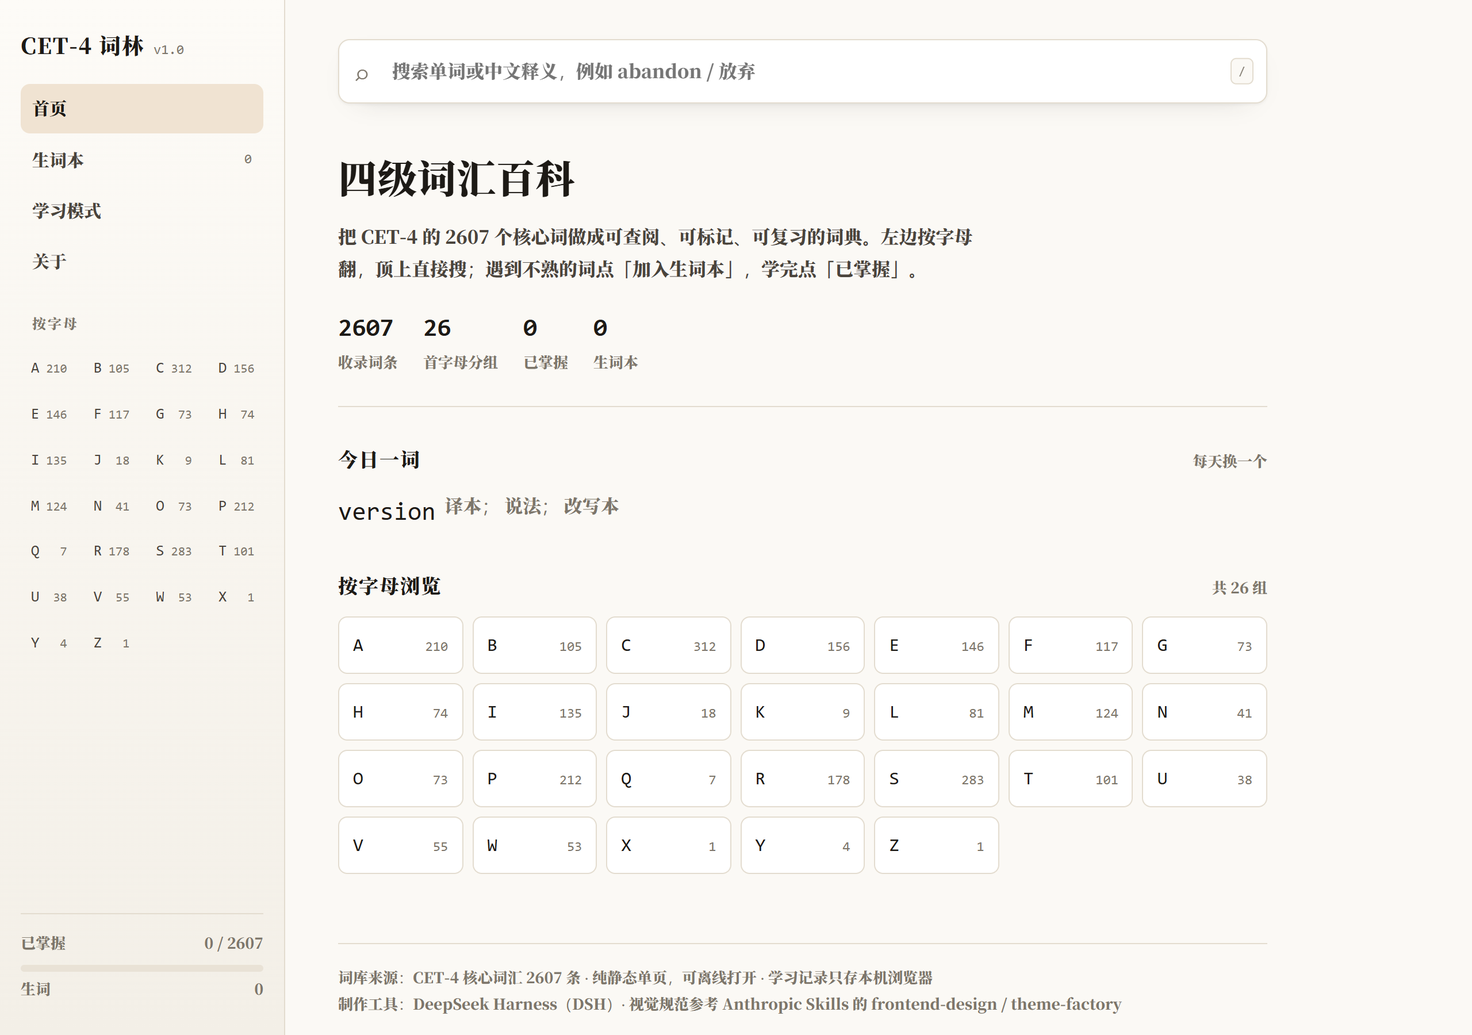
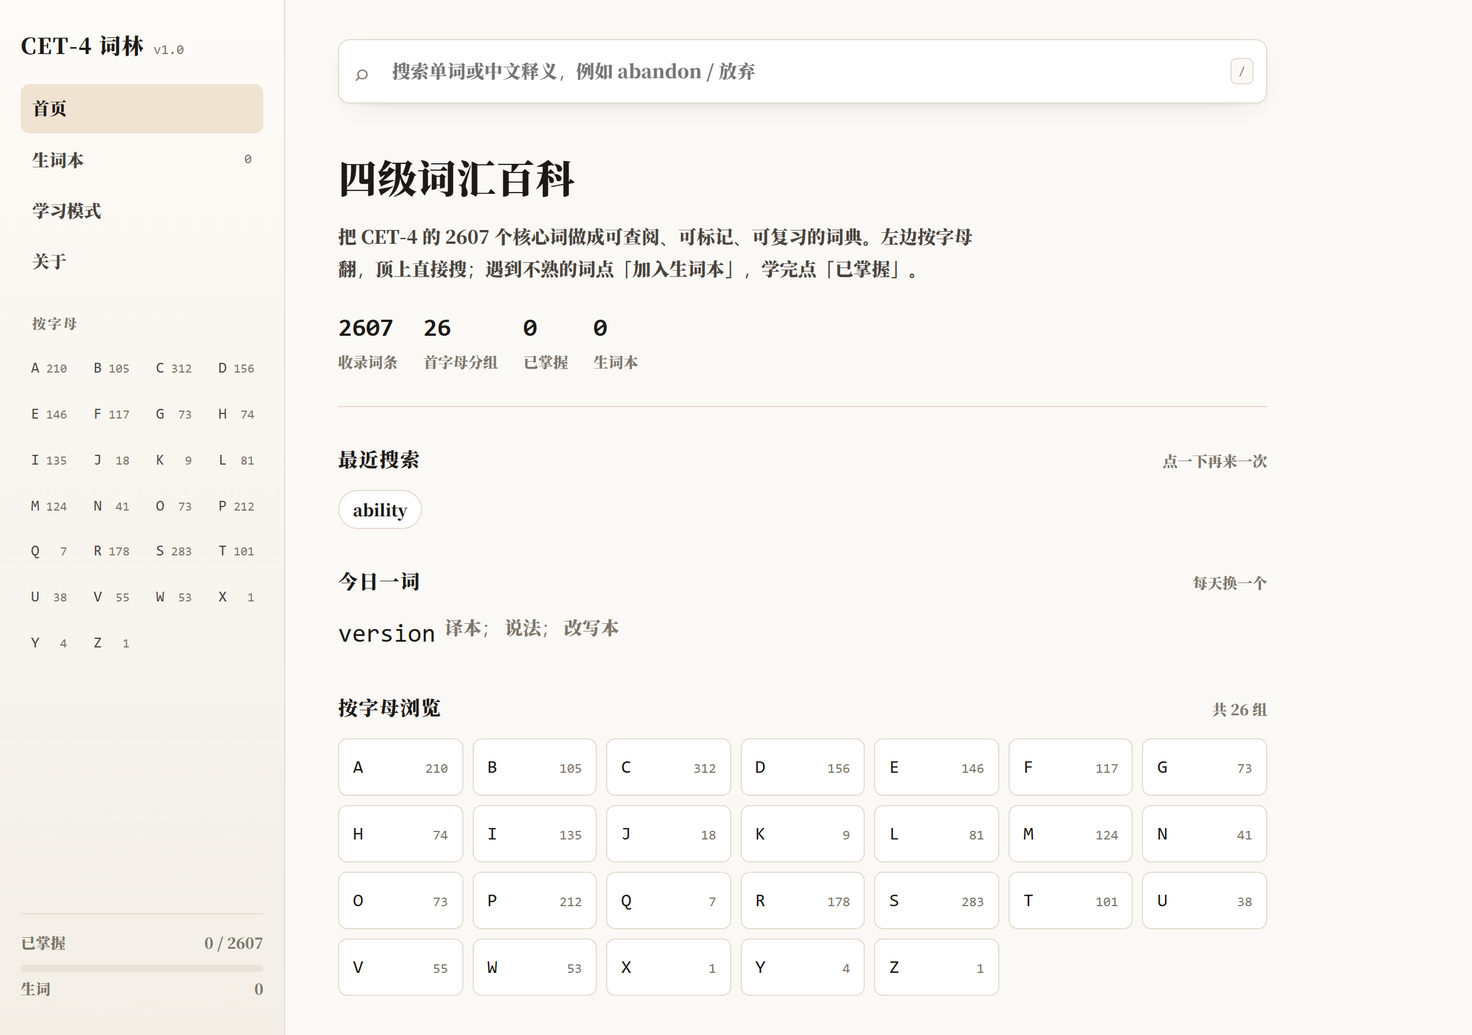
新增例句与朗读、搜索结果页、搜索历史

diff --git a/examples.js b/examples.js
@@ -1,0 +1,141 @@
+/* 精选例句：为高频词手写的一条中英对照例句（AI 生成，标注见「关于」页）
+   结构：window.CET4_EXAMPLES = { word: { en, zh } } */
+window.CET4_EXAMPLES = {
+  abandon:      { en: "The crew had to abandon the ship when the storm hit.", zh: "暴风雨来袭时，船员不得不弃船。" },
+  ability:      { en: "She has the ability to explain difficult ideas simply.", zh: "她有把复杂概念讲简单的能力。" },
+  absolute:     { en: "You need absolute silence before you can hear the difference.", zh: "要先有绝对的安静，才听得出来区别。" },
+  academic:     { en: "His academic record is strong, but his writing is weak.", zh: "他的学业成绩很好，但写作较弱。" },
+  accept:       { en: "I accept your apology, but I still want an explanation.", zh: "我接受你的道歉，但我还是想要个解释。" },
+  access:       { en: "Students can access the library database from home.", zh: "学生可以在家访问图书馆数据库。" },
+  accident:     { en: "The accident was caused by a driver checking his phone.", zh: "这起事故是司机看手机造成的。" },
+  accompany:    { en: "Thunder usually accompanies a heavy summer storm.", zh: "夏天的暴雨通常伴着雷声。" },
+  accomplish:   { en: "We accomplished more in one week than in the past month.", zh: "我们一周的成果超过了过去一个月。" },
+  accurate:     { en: "The map is accurate enough for walking, but not for driving.", zh: "这张地图步行够准，开车就不行了。" },
+  achieve:      { en: "She achieved her goal without sacrificing her health.", zh: "她达成了目标，也没牺牲健康。" },
+  acquire:      { en: "Children acquire language faster than adults do.", zh: "儿童习得语言比成年人快。" },
+  adapt:        { en: "Plants adapt to dry weather by growing deeper roots.", zh: "植物通过长出更深的根来适应干旱。" },
+  adequate:     { en: "The room was adequate, but the view was disappointing.", zh: "房间够用，但风景让人失望。" },
+  adjust:       { en: "You may need to adjust the seat before you start driving.", zh: "开车前你可能需要调一下座椅。" },
+  admire:       { en: "I admire the way he stayed calm under pressure.", zh: "我钦佩他在压力下保持冷静的样子。" },
+  admit:        { en: "He admitted that the first draft was better than the second.", zh: "他承认第一版比第二版好。" },
+  adopt:        { en: "The company decided to adopt a four-day work week.", zh: "公司决定采用每周四天工作制。" },
+  advance:      { en: "Please book your ticket in advance; the seats sell out fast.", zh: "请提前订票，座位卖得很快。" },
+  advantage:    { en: "Speaking two languages is a real advantage in this job.", zh: "会两种语言在这份工作里是真优势。" },
+  affect:       { en: "Lack of sleep affects your memory more than you think.", zh: "缺觉对记忆的影响比你想象的大。" },
+  afford:       { en: "We can't afford to lose another week on this.", zh: "我们没时间再在这上面浪费一周了。" },
+  agency:       { en: "The travel agency changed our flight without asking.", zh: "旅行社没问我们就改了航班。" },
+  agriculture:  { en: "Agriculture still employs half the people in this region.", zh: "这个地区仍有一半人从事农业。" },
+  alternative:  { en: "Cycling is a healthy alternative to driving to work.", zh: "骑车上班是开车之外的健康选择。" },
+  ambition:     { en: "Her ambition is to build a school in her hometown.", zh: "她的志向是在家乡建一所学校。" },
+  analyze:      { en: "Let's analyze the data before we blame anyone.", zh: "先分析数据，再谈责任。" },
+  ancient:      { en: "The ancient bridge is still used by local farmers.", zh: "这座古桥至今仍被当地农民使用。" },
+  announce:     { en: "They announced the results at the end of the meeting.", zh: "会议结束时他们公布了结果。" },
+  annual:       { en: "The annual report is due at the end of March.", zh: "年度报告三月底前交。" },
+  anxious:      { en: "I felt anxious the whole week before the interview.", zh: "面试前那一整周我都很焦虑。" },
+  apparent:     { en: "It soon became apparent that the plan would not work.", zh: "很快就看出这个计划行不通。" },
+  appeal:       { en: "The idea appeals to students who hate long lectures.", zh: "这个想法很吸引讨厌长课的学生。" },
+  appreciate:   { en: "I really appreciate you taking the time to explain this.", zh: "很感谢你花时间解释这件事。" },
+  approach:     { en: "We need a different approach if the first one fails.", zh: "第一种办法失败的话，我们得换个思路。" },
+  appropriate:  { en: "That joke was funny, but not appropriate for the meeting.", zh: "那个笑话挺好笑，但不适合在会上讲。" },
+  approve:      { en: "The manager approved the budget after two revisions.", zh: "改了两版之后，经理批了预算。" },
+  argue:        { en: "They argued for an hour about whose turn it was.", zh: "他们为该谁值班吵了一个小时。" },
+  arise:        { en: "Problems arise when nobody is responsible for the details.", zh: "没人对细节负责时，问题就会冒出来。" },
+  arrange:      { en: "I'll arrange the chairs if you bring the projector.", zh: "你带投影仪的话，我来摆椅子。" },
+  aspect:       { en: "Cost is only one aspect of the decision.", zh: "成本只是这个决定的一个方面。" },
+  assess:       { en: "The teacher assesses progress by weekly quizzes.", zh: "老师用每周小测来评估进度。" },
+  assign:       { en: "She assigned the hardest task to herself.", zh: "她把最难的任务分给了自己。" },
+  assist:       { en: "Two volunteers assisted the students during the experiment.", zh: "两名志愿者在实验中协助学生。" },
+  assume:       { en: "Don't assume everyone understands the abbreviation.", zh: "别以为每个人都看得懂那个缩写。" },
+  attach:       { en: "Please attach the file instead of pasting screenshots.", zh: "请附上文件，别贴截图。" },
+  attempt:      { en: "His first attempt failed, but the second one worked.", zh: "他第一次尝试失败，第二次成了。" },
+  attitude:     { en: "Her attitude changed the moment the deadline moved.", zh: "截止日期一改，她的态度就变了。" },
+  attract:      { en: "The new library attracts students who never used to read.", zh: "新图书馆吸引了以前从不看书的学生。" },
+  authority:    { en: "Only the local authority can approve this kind of change.", zh: "这种变更只有地方主管部门能批。" },
+  available:    { en: "The room is available after three o'clock.", zh: "三点以后这个房间空着。" },
+  avoid:        { en: "Avoid opening the box in a humid room.", zh: "别在潮湿的房间里打开这个盒子。" },
+  aware:        { en: "I wasn't aware that the deadline had changed.", zh: "我不知道截止日期改了。" },
+  balance:      { en: "It takes practice to balance speed and accuracy.", zh: "在速度和准确率之间找平衡需要练习。" },
+  benefit:      { en: "The biggest benefit of walking is that it costs nothing.", zh: "走路最大的好处是不花钱。" },
+  brief:        { en: "Keep the introduction brief; the details come later.", zh: "引言简短点，细节后面再说。" },
+  budget:       { en: "The budget covers materials but not labor.", zh: "预算包含材料，不包含人工。" },
+  calculate:    { en: "Calculate the total before you place the order.", zh: "下单前先算一下总价。" },
+  campaign:     { en: "The campaign reached two million people in a week.", zh: "这场活动一周内触达了两百万人。" },
+  capable:      { en: "She is capable of finishing this alone.", zh: "她一个人就能完成这件事。" },
+  capacity:     { en: "The hall has a capacity of three hundred people.", zh: "这个厅能容纳三百人。" },
+  career:       { en: "He changed careers at thirty-five and never regretted it.", zh: "他三十五岁转行，从没后悔过。" },
+  category:     { en: "Put the receipts in the right category before filing.", zh: "归档前把票据分到正确的类别。" },
+  challenge:    { en: "The real challenge is keeping the team motivated.", zh: "真正的挑战是让团队保持动力。" },
+  circumstance: { en: "Under normal circumstances, the reply takes two days.", zh: "正常情况下，回复需要两天。" },
+  civil:        { en: "The civil engineer checked the bridge after the flood.", zh: "洪水过后，土木工程师检查了这座桥。" },
+  claim:        { en: "He claims the app saves him an hour a day.", zh: "他声称这个应用每天帮他省一小时。" },
+  classic:       { en: "This is a classic example of over-engineering.", zh: "这是过度设计的典型例子。" },
+  combine:      { en: "Combine the two files before sending them out.", zh: "发出去之前把两个文件合并。" },
+  comment:      { en: "Leave a comment if the wording is unclear.", zh: "如果措辞不清楚，留个批注。" },
+  commercial:   { en: "The film was a commercial success but a critical failure.", zh: "这部电影票房成功，口碑失败。" },
+  commit:       { en: "Commit to one small change instead of ten big ones.", zh: "先承诺做一个小改动，别一口气上十个。" },
+  communicate:  { en: "Good teams communicate before problems get bigger.", zh: "好的团队会在问题变大之前沟通。" },
+  compare:      { en: "Compare the two versions before you decide.", zh: "决定前先对比两个版本。" },
+  compete:      { en: "Small shops can't compete with the big chains on price.", zh: "小店在价格上拼不过连锁大店。" },
+  complex:      { en: "The rules are complex, but the principle is simple.", zh: "规则很复杂，但原理很简单。" },
+  concern:      { en: "My main concern is that nobody has tested it yet.", zh: "我主要担心的是还没人测过。" },
+  conclude:     { en: "We concluded that the delay came from the supplier.", zh: "我们断定延误来自供应商。" },
+  conduct:      { en: "They conducted the survey in three schools.", zh: "他们在三所学校开展了这项调查。" },
+  confirm:      { en: "Please confirm the date by email.", zh: "请邮件确认日期。" },
+  conflict:     { en: "The two schedules conflict on Friday afternoon.", zh: "两个日程在周五下午冲突。" },
+  consider:     { en: "Consider how the page looks on a phone first.", zh: "先考虑页面在手机上是什么样子。" },
+  consist:      { en: "The course consists of six lectures and one project.", zh: "这门课由六次讲座和一个项目组成。" },
+  constant:     { en: "Constant small fixes beat one big rewrite.", zh: "持续的小修补胜过一次性大重写。" },
+  consume:      { en: "Older fridges consume far more power than new ones.", zh: "旧冰箱比新冰箱耗电多得多。" },
+  contain:      { en: "The box contains everything you need for the setup.", zh: "盒子里装着安装需要的全部东西。" },
+  contract:     { en: "Read the contract before you sign anything.", zh: "签任何东西之前先读合同。" },
+  contribute:   { en: "Everyone contributed one idea to the list.", zh: "每个人都往清单里贡献了一个想法。" },
+  convince:     { en: "The demo convinced the teacher faster than the slides.", zh: "演示比 PPT 更快说服了老师。" },
+  cooperate:    { en: "The two departments finally agreed to cooperate.", zh: "两个部门终于同意合作。" },
+  create:       { en: "Create a backup before you touch the settings.", zh: "改设置之前先做个备份。" },
+  crisis:       { en: "The team handled the crisis better than expected.", zh: "团队处理危机比预期好。" },
+  critical:     { en: "Timing is critical in this experiment.", zh: "这个实验里时机很关键。" },
+  culture:      { en: "Company culture shows up in small decisions.", zh: "公司文化体现在小决定里。" },
+  current:      { en: "The current version works, but it is slow.", zh: "当前版本能用，就是慢。" },
+  damage:       { en: "The water damage cost more than the laptop itself.", zh: "进水的损失比笔记本本身还贵。" },
+  debate:       { en: "The debate ended without a clear answer.", zh: "辩论结束了，没有明确结论。" },
+  decline:      { en: "Sales declined for three months in a row.", zh: "销量连续三个月下滑。" },
+  define:       { en: "Define the goal before you choose the tool.", zh: "先定目标，再选工具。" },
+  deliver:      { en: "We deliver the report every Friday afternoon.", zh: "我们每周五下午交报告。" },
+  demand:       { en: "Demand for the course doubled after the video went viral.", zh: "视频火了之后，课程需求翻了一倍。" },
+  demonstrate:  { en: "Let me demonstrate how the search works.", zh: "我来演示一下搜索怎么用。" },
+  describe:     { en: "Describe the problem in one sentence.", zh: "用一句话描述这个问题。" },
+  design:       { en: "The design looks clean, but the buttons are too small.", zh: "设计看着干净，但按钮太小。" },
+  despite:      { en: "Despite the rain, the event went ahead.", zh: "尽管下雨，活动照常进行。" },
+  determine:    { en: "The test determines whether the material is safe.", zh: "这项测试决定材料是否安全。" },
+  develop:      { en: "It took two years to develop the first version.", zh: "开发第一版花了两年。" },
+  device:       { en: "The device works offline for up to eight hours.", zh: "这台设备离网能用八小时。" },
+  differ:       { en: "The two versions differ only in color.", zh: "两个版本只有颜色不同。" },
+  display:      { en: "The display is bright enough for outdoor use.", zh: "屏幕亮度够户外使用。" },
+  distribute:   { en: "Volunteers distributed the leaflets at the gate.", zh: "志愿者在门口分发传单。" },
+  economy:      { en: "The local economy depends on tourism.", zh: "当地经济依赖旅游业。" },
+  effect:       { en: "The effect was small but measurable.", zh: "效果不大，但可以测出来。" },
+  efficient:    { en: "The new process is twice as efficient.", zh: "新流程的效率翻了一倍。" },
+  emerge:       { en: "A clearer picture emerged after the second test.", zh: "第二次测试后情况清楚多了。" },
+  emotion:      { en: "He hid his emotion behind a joke.", zh: "他用玩笑藏住了情绪。" },
+  employ:       { en: "The factory employs three hundred workers.", zh: "这家工厂雇了三百名工人。" },
+  enable:       { en: "This switch enables the offline mode.", zh: "这个开关会启用离线模式。" },
+  encounter:    { en: "We encountered a problem we had not planned for.", zh: "我们遇到了没预料到的问题。" },
+  encourage:    { en: "The teacher encouraged us to ask stupid questions.", zh: "老师鼓励我们问「很傻」的问题。" },
+  engage:       { en: "Short videos engage viewers faster than text.", zh: "短视频比文字更快抓住观众。" },
+  enormous:     { en: "The difference in cost was enormous.", zh: "成本差距非常大。" },
+  ensure:       { en: "Check the file twice to ensure nothing is missing.", zh: "检查两遍，确保没有遗漏。" },
+  establish:    { en: "They established the club in 2019.", zh: "他们在 2019 年成立了这个社团。" },
+  estimate:     { en: "My estimate was off by about twenty percent.", zh: "我的估算差了大约两成。" },
+  evaluate:     { en: "We evaluate each version with the same checklist.", zh: "我们用同一份清单评估每个版本。" },
+  eventually:   { en: "The bug eventually turned out to be a typo.", zh: "那个 bug 最后发现是个拼写错误。" },
+  evidence:     { en: "There is no evidence that the shortcut saves time.", zh: "没有证据表明这个捷径省时间。" },
+  exchange:     { en: "The two schools exchange students every summer.", zh: "两所学校每年夏天交换学生。" },
+  exist:        { en: "This problem exists in almost every small team.", zh: "这个问题几乎每个小团队都有。" },
+  expand:       { en: "They plan to expand the library next year.", zh: "他们打算明年扩建图书馆。" },
+  experience:   { en: "Experience matters more than certificates here.", zh: "在这里，经验比证书重要。" },
+  explain:      { en: "Explain it to me as if I were a beginner.", zh: "把我当新手，再讲一遍。" },
+  explore:      { en: "We spent the afternoon exploring the old town.", zh: "我们花了一下午逛老城区。" },
+  express:      { en: "It is hard to express the difference in words.", zh: "这种差别很难用语言表达。" },
+  extend:       { en: "They extended the deadline by two days.", zh: "他们把截止日期延长了两天。" },
+  familiar:     { en: "The street looks familiar, but I can't name it.", zh: "这条街看着眼熟，但我说不出名字。" }
+};

diff --git a/index.html b/index.html
@@ -180,6 +180,23 @@
   .pager a:hover { color: var(--accent); }
   .pager span { color: var(--muted); font-size: 12px; }
 
+  .example { border-left: 3px solid var(--accent-soft); padding: 4px 0 4px 16px; margin-top: 10px; }
+  .example .en { margin: 0 0 6px; font-size: 17px; line-height: 1.9; }
+  .example .zh { margin: 0; color: var(--muted); font-size: 14px; }
+  .mini {
+    border: 1px solid var(--line); background: #fff; border-radius: 999px;
+    padding: 0 8px; font-size: 13px; line-height: 22px; vertical-align: middle; color: var(--muted);
+  }
+  .mini:hover { border-color: var(--accent); color: var(--accent); }
+  .muted { color: var(--muted); font-size: 14px; }
+  .hist { display: flex; flex-wrap: wrap; gap: 8px; margin-top: 10px; }
+  .hist a, .hist button {
+    border: 1px solid var(--line); background: #fff; border-radius: 999px;
+    padding: 4px 12px; font-size: 14px; text-decoration: none;
+  }
+  .hist button:hover, .hist a:hover { border-color: var(--accent); color: var(--accent); }
+  .hit { background: #f6e7c8; border-radius: 3px; padding: 0 1px; }
+
   .rel { display: flex; flex-wrap: wrap; gap: 8px; margin-top: 8px; }
   .rel a {
     padding: 4px 10px; border: 1px solid var(--line); border-radius: 999px;
@@ -255,6 +272,7 @@
 </div>
 
 <script src="data.js"></script>
+<script src="examples.js"></script>
 <script>
 (() => {
   'use strict';
@@ -267,6 +285,7 @@
     lower: w.n.toLowerCase(),
   }));
 
+  const EXAMPLES = window.CET4_EXAMPLES || {};
   const INDEX = new Map(WORDS.map((w, i) => [w.lower, i]));
   const byLetter = new Map();
   for (const w of WORDS) {
@@ -340,7 +359,8 @@
       <a class="item" href="#/w/${encodeURIComponent(w.n)}" data-i="${i}">
         <span class="w">${esc(w.n)}</span>
         <span class="d">${esc(w.t.join('；'))}</span>
-      </a>`).join('');
+      </a>`).join('')
+      + `<a class="item" style="justify-content:center;color:var(--accent)" href="#/search/${encodeURIComponent(qInput.value.trim())}">查看全部「${esc(qInput.value.trim())}」的结果 →</a>`;
     resultsBox.classList.add('open');
   }
 
@@ -357,7 +377,7 @@
     if (e.key === 'Enter') {
       e.preventDefault();
       const w = current[sel < 0 ? 0 : sel];
-      if (w) { qInput.value = ''; resultsBox.classList.remove('open'); location.hash = '#/w/' + encodeURIComponent(w.n); }
+      if (w) { pushHistory(qInput.value.trim()); qInput.value = ''; resultsBox.classList.remove('open'); location.hash = '#/w/' + encodeURIComponent(w.n); }
     }
   });
   document.addEventListener('click', (e) => {
@@ -368,6 +388,40 @@
   });
 
   /* ---------- 页面 ---------- */
+  function pushHistory(q) {
+    if (!q) return;
+    let h = LS.get('cet4.history', []);
+    h = [q, ...h.filter(x => x !== q)].slice(0, 8);
+    LS.set('cet4.history', h);
+  }
+
+  function highlight(text, q) {
+    const t = esc(text);
+    if (!q) return t;
+    const safe = q.replace(/[.*+?^${}()|[\]\\]/g, '\\$&');
+    return t.replace(new RegExp('(' + safe + ')', 'gi'), '<span class="hit">$1</span>');
+  }
+
+  function pageSearch(q) {
+    const s = String(q || '').trim();
+    const hits = search(s);
+    const all = [];
+    if (s) {
+      const low = s.toLowerCase();
+      for (const w of WORDS) {
+        if (w.lower.includes(low) || w.t.some(t => t.includes(s))) all.push(w);
+      }
+    }
+    return `
+      <div class="crumb"><a href="#/">词库</a> / 搜索</div>
+      <h1 style="margin:0 0 6px;font-size:28px">「${esc(s)}」</h1>
+      <p class="muted" style="margin:0 0 20px">命中 ${all.length} 个词条${hits.length ? '，前 ' + hits.length + ' 个已按相关度排序' : ''}</p>
+      ${all.length
+        ? `<div class="wordlist">${all.slice(0, 120).map(w => `<a href="#/w/${encodeURIComponent(w.n)}"><span>${highlight(w.n, s)}</span><em>${esc(w.t.join('；'))}</em></a>`).join('')}</div>`
+        : '<div class="empty-box">没有命中。试试更短的拼写，或者换个中文关键词。</div>'}
+    `;
+  }
+
   function pageHome() {
     const today = WORDS[Math.floor((Date.now() / 86400000)) % WORDS.length];
     const rec = recent.slice(0, 6).map(n => INDEX.get(n.toLowerCase())).filter(i => i !== undefined).map(i => WORDS[i]);
@@ -382,6 +436,10 @@
           <div><b>${book.size}</b>生词本</div>
         </div>
       </section>
+
+      ${(LS.get('cet4.history', []).length) ? `
+      <div class="section-h"><h2>最近搜索</h2><span>点一下再来一次</span></div>
+      <div class="hist">${LS.get('cet4.history', []).map(q => `<a href="#/search/${encodeURIComponent(q)}">${esc(q)}</a>`).join('')}</div>` : ''}
 
       <div class="section-h"><h2>今日一词</h2><span>每天换一个</span></div>
       <a class="rel" style="text-decoration:none" href="#/w/${encodeURIComponent(today.n)}">
@@ -466,6 +524,14 @@
           <section>
             <div class="section-h" style="margin-top:6px"><h2>释义</h2></div>
             <ol class="defs">${w.t.map(t => `<li>${esc(t)}</li>`).join('')}</ol>
+
+            <div class="section-h" style="margin-top:26px"><h2>例句</h2><span>${EXAMPLES[w.n] ? '点击喇叭跟读' : ''}</span></div>
+            ${EXAMPLES[w.n]
+              ? `<div class="example">
+                   <p class="en">${esc(EXAMPLES[w.n].en)} <button class="mini" data-speak="${esc(EXAMPLES[w.n].en)}" data-lang="en-US">🔊 朗读</button></p>
+                   <p class="zh">${esc(EXAMPLES[w.n].zh)}</p>
+                 </div>`
+              : `<p class="muted">这个词暂时没有例句，先用上面的音标跟读；例句正在陆续补充。</p>`}
 
             ${rel.length ? `
             <div class="section-h"><h2>形近 / 同前缀</h2><span>按相似度排</span></div>
@@ -567,6 +633,7 @@
       </ul>
       <div class="section-h"><h2>数据</h2></div>
       <p>词条 ${WORDS.length} 条，含美/英音标与中文释义；形近词按编辑距离与共同前缀推导，不引入外部接口。</p>
+      <p>其中 ${Object.keys(EXAMPLES).length} 个高频词配有中英对照例句，例句由 AI（DeepSeek Harness）生成并经人工挑选，仅作学习参考，不引用任何受版权保护的词典原文。朗读使用浏览器内置语音合成（Web Speech API），离线可用。</p>
     `;
   }
 
@@ -578,6 +645,7 @@
     else if (parts[0] === 'l') { setActiveNav(''); app.innerHTML = pageLetter(parts[1]); }
     else if (parts[0] === 'book') { setActiveNav('book'); app.innerHTML = pageBook(); }
     else if (parts[0] === 'study') { setActiveNav('study'); app.innerHTML = pageStudy(); }
+    else if (parts[0] === 'search') { setActiveNav(''); app.innerHTML = pageSearch(decodeURIComponent(parts.slice(1).join('/'))); }
     else if (parts[0] === 'about') { setActiveNav('about'); app.innerHTML = pageAbout(); }
     else { setActiveNav('home'); app.innerHTML = pageHome(); }
     renderSidebar();
